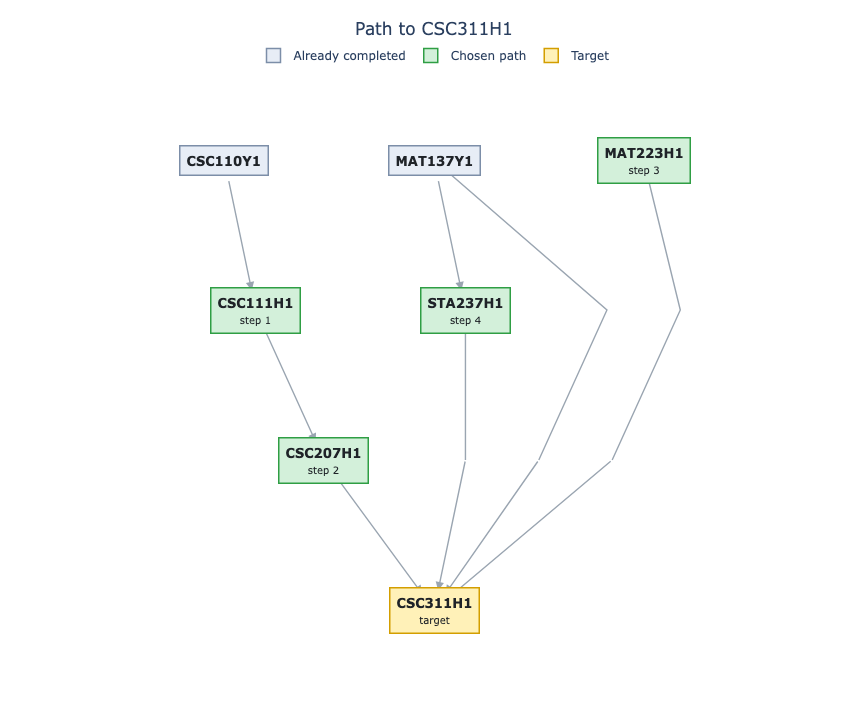
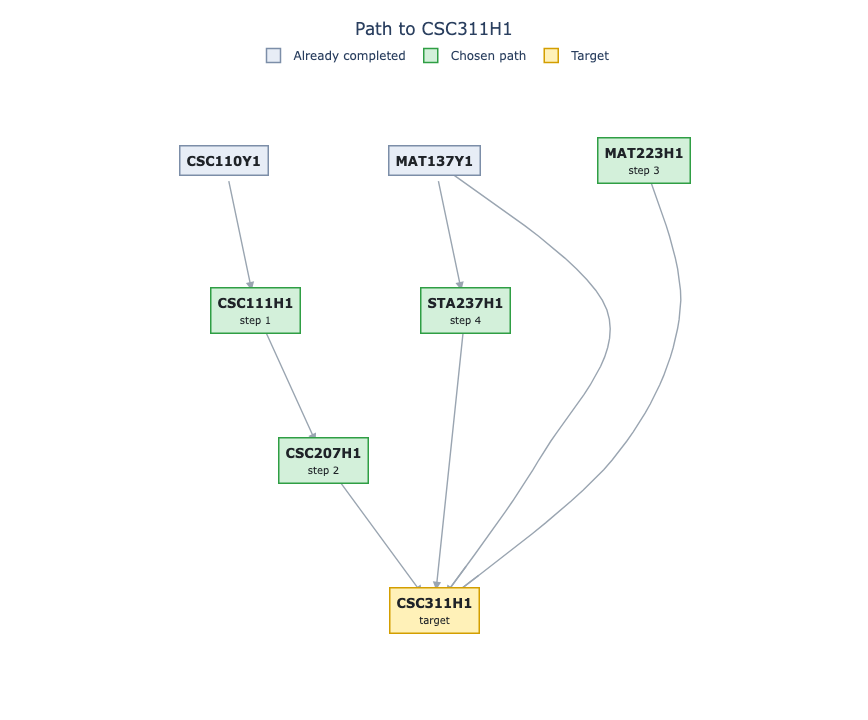
Draw long edges straight when possible and curve the rest
An edge that skips a layer always bent through a point in each layer it
crossed, even with nothing in the way (e.g. CHM135H1 -> CHM247H1 next to
CHM136H1), which looked like a stray line. Now such an edge is drawn
straight when it clears every course box and adds no crossings, judged
by an exact segment-intersection test. Edges that still need to bend are
drawn as smooth Catmull-Rom curves with the arrowhead aligned to the
curve's end.

diff --git a/course_planner/visualizations.py b/course_planner/visualizations.py
@@ -7,6 +7,7 @@ it. Within each layer, courses are ordered to keep arrows from crossing.
 from __future__ import annotations
 
 from collections.abc import Callable, Iterable
+from itertools import pairwise
 
 import networkx as nx
 from plotly.graph_objs import Figure, Scatter
@@ -25,6 +26,8 @@ TEXT_COLOUR = '#1f2328'
 
 X_SPACING = 1.0     # horizontal distance between neighbouring courses in a layer
 BEND_WIDTH = 0.35   # horizontal room taken by an edge bend point, relative to a course
+BOX_CLEARANCE = 0.35  # how far (in x units) a straight edge must pass from a course box
+ARROW_TAIL_PX = 45   # length of the straight arrow drawn at the end of a curved edge
 SWEEPS = 12         # down/up passes used to reduce edge crossings; the best ordering is kept
 
 
@@ -59,18 +62,30 @@ def build_figure(graph: CourseGraph, path: Iterable[str] = (), target: str | Non
             return 'target'
         return 'path' if code in step_of else 'completed'
 
+    layer_count = 1 + max((-y for _, y in pos.values()), default=0)
+    all_points = list(pos.values()) + [point for route in routes.values() for point in route]
+    widest = max((abs(x) for x, _ in all_points), default=0)
+    width = max(720, int(220 * (2 * widest + 1.6)))
+    height = max(420, int(140 * layer_count + 160))
+    # Pixels per data unit, used to place arrowheads a fixed distance along curves.
+    scale = ((width - 40) / (2 * widest + 1.6), (height - 90) / (layer_count + 0.2))
+
     fig = Figure()
     annotations = []
 
-    # Edges that skip layers bend through intermediate points; draw those bends as lines
-    # and finish every edge with an arrow into its course. Boxes are drawn on top.
-    line_x: list[float | None] = []
-    line_y: list[float | None] = []
+    # Straight edges are single arrows. Edges that bend around boxes are drawn as smooth
+    # curves through their bend points, finished by a short arrowhead into the course.
+    # Course boxes are drawn on top of everything.
+    curve_x: list[float | None] = []
+    curve_y: list[float | None] = []
     for route in routes.values():
+        (start_x, start_y), (end_x, end_y) = route[0], route[-1]
         if len(route) > 2:
-            line_x += [x for x, _ in route[:-1]] + [None]
-            line_y += [y for _, y in route[:-1]] + [None]
-        (start_x, start_y), (end_x, end_y) = route[-2], route[-1]
+            curve = smooth_route(route)
+            curve_x += [x for x, _ in curve] + [None]
+            curve_y += [y for _, y in curve] + [None]
+            # The arrow covers only the curve's last few pixels, so it follows the curve.
+            start_x, start_y = _point_before_end(curve, ARROW_TAIL_PX, scale)
         annotations.append({
             'x': end_x, 'y': end_y, 'xref': 'x', 'yref': 'y',
             'ax': start_x, 'ay': start_y, 'axref': 'x', 'ayref': 'y',
@@ -78,8 +93,8 @@ def build_figure(graph: CourseGraph, path: Iterable[str] = (), target: str | Non
             'arrowwidth': 1.4, 'arrowcolor': EDGE_COLOUR, 'standoff': 20,
             'startstandoff': 20 if len(route) == 2 else 0,
         })
-    if line_x:
-        fig.add_trace(Scatter(x=line_x, y=line_y, mode='lines', hoverinfo='skip', showlegend=False,
+    if curve_x:
+        fig.add_trace(Scatter(x=curve_x, y=curve_y, mode='lines', hoverinfo='skip', showlegend=False,
                               line={'color': EDGE_COLOUR, 'width': 1.4}))
 
     for code in digraph.nodes:
@@ -114,16 +129,13 @@ def build_figure(graph: CourseGraph, path: Iterable[str] = (), target: str | Non
                 marker={'symbol': 'square', 'size': 14, 'color': fill, 'line': {'color': border, 'width': 1.5}},
             ))
 
-    layer_count = 1 + max((-y for _, y in pos.values()), default=0)
-    all_points = list(pos.values()) + [point for route in routes.values() for point in route]
-    widest = max((abs(x) for x, _ in all_points), default=0)
     title = f'Path to {target}' if target else 'Course prerequisites'
     fig.update_layout(
         title={'text': title, 'x': 0.5},
         template='plotly_white',
         annotations=annotations,
-        width=max(720, int(220 * (2 * widest + 1.6))),
-        height=max(420, int(140 * layer_count + 160)),
+        width=width,
+        height=height,
         margin={'l': 20, 'r': 20, 't': 70, 'b': 20},
         legend={'orientation': 'h', 'x': 0.5, 'xanchor': 'center', 'y': 1.0, 'yanchor': 'bottom'},
         hoverlabel={'bgcolor': 'white'},
@@ -131,6 +143,37 @@ def build_figure(graph: CourseGraph, path: Iterable[str] = (), target: str | Non
     fig.update_xaxes(visible=False, range=[-widest - 0.8, widest + 0.8])
     fig.update_yaxes(visible=False, range=[-(layer_count - 1) - 0.6, 0.6])
     return fig
+
+
+def smooth_route(route: list[Position], samples: int = 16) -> list[Position]:
+    """Return points along a Catmull-Rom curve that passes through every point of route.
+
+    >>> curve = smooth_route([(0, 0), (1, -1), (0, -2)], samples=4)
+    >>> curve[0], curve[4], curve[-1]
+    ((0.0, 0.0), (1.0, -1.0), (0.0, -2.0))
+    """
+    padded = [route[0], *route, route[-1]]
+    curve = []
+    for i in range(1, len(padded) - 2):
+        p0, p1, p2, p3 = padded[i - 1], padded[i], padded[i + 1], padded[i + 2]
+        for step in range(samples):
+            t = step / samples
+            curve.append(tuple(
+                0.5 * (2 * b + (c - a) * t + (2 * a - 5 * b + 4 * c - d) * t ** 2 + (3 * b - a - 3 * c + d) * t ** 3)
+                for a, b, c, d in zip(p0, p1, p2, p3, strict=True)))
+    curve.append((float(route[-1][0]), float(route[-1][1])))
+    return curve
+
+
+def _point_before_end(curve: list[Position], distance_px: float, scale: tuple[float, float]) -> Position:
+    """Return the point on curve that lies about distance_px pixels before its end."""
+    travelled = 0.0
+    for i in range(len(curve) - 1, 0, -1):
+        (x1, y1), (x0, y0) = curve[i], curve[i - 1]
+        travelled += (((x1 - x0) * scale[0]) ** 2 + ((y1 - y0) * scale[1]) ** 2) ** 0.5
+        if travelled >= distance_px:
+            return curve[i - 1]
+    return curve[0]
 
 
 def get_depths(digraph: nx.DiGraph) -> dict[str, int]:
@@ -168,13 +211,17 @@ def layered_layout(digraph: nx.DiGraph) -> tuple[dict[str, Position], dict[tuple
     edge crossings.
 
     The second value maps each edge (u, v) to the points its line passes through,
-    from u's position to v's position.
+    from u's position to v's position. A long edge keeps its bend points only when a
+    straight line would run through a course box in a layer it crosses.
 
     >>> pos, routes = layered_layout(nx.DiGraph([('A', 'B'), ('B', 'C'), ('A', 'C')]))
     >>> [pos[n][1] for n in 'ABC']
     [0, -1, -2]
-    >>> len(routes[('A', 'B')]), len(routes[('A', 'C')])
-    (2, 3)
+    >>> len(routes[('A', 'C')])  # B sits between A and C, so the edge bends around it
+    3
+    >>> _, routes = layered_layout(nx.DiGraph([('A', 'B'), ('B', 'C'), ('A', 'C'), ('D', 'B')]))
+    >>> len(routes[('A', 'C')])  # room for a straight line beside B
+    2
     """
     depths = get_depths(digraph)
     expanded = nx.DiGraph()
@@ -220,7 +267,39 @@ def layered_layout(digraph: nx.DiGraph) -> tuple[dict[str, Position], dict[tuple
 
     node_pos = {node: pos[node] for node in digraph.nodes}
     routes = {edge: [pos[node] for node in chain] for edge, chain in chains.items()}
+    _straighten(routes, node_pos.values())
     return node_pos, routes
+
+
+def _straighten(routes: dict[tuple[str, str], list[Position]], boxes: Iterable[Position]) -> None:
+    """Replace bent routes in place with straight lines where that is cleaner.
+
+    A route is straightened when the straight line passes clear of every course box
+    and crosses no more of the other edges than the bent route does.
+    """
+    boxes = list(boxes)
+    for edge, route in routes.items():
+        if len(route) <= 2:
+            continue
+        straight = [route[0], route[-1]]
+        if not _straight_line_is_clear(straight[0], straight[1], boxes):
+            continue
+        others = [other for key, other in routes.items() if key != edge]
+        if _route_crossings(straight, others) <= _route_crossings(route, others):
+            routes[edge] = straight
+
+
+def _straight_line_is_clear(start: Position, end: Position, boxes: Iterable[Position]) -> bool:
+    """Return whether a straight line from start to end passes clear of every box
+    centred in a layer strictly between them.
+    """
+    (x1, y1), (x2, y2) = start, end
+    for bx, by in boxes:
+        if y2 < by < y1:
+            line_x = x1 + (x2 - x1) * (y1 - by) / (y1 - y2)
+            if abs(line_x - bx) < BOX_CLEARANCE:
+                return False
+    return True
 
 
 def _order_crossings(expanded: nx.DiGraph, order: list[list]) -> int:
@@ -263,20 +342,35 @@ def hierarchical_layout(digraph: nx.DiGraph) -> dict[str, Position]:
 
 
 def count_crossings(routes: dict[tuple[str, str], list[Position]]) -> int:
-    """Return the number of pairs of edge segments that cross between adjacent layers.
+    """Return the number of places where two drawn edges cross.
+
+    Edges meeting at a shared course (a common endpoint) do not count as crossing.
 
     >>> count_crossings({('A', 'D'): [(0, 0), (1, -1)], ('B', 'C'): [(1, 0), (0, -1)]})
     1
     >>> count_crossings({('A', 'C'): [(0, 0), (0, -1)], ('B', 'D'): [(1, 0), (1, -1)]})
     0
     """
-    segments = [(route[i], route[i + 1]) for route in routes.values() for i in range(len(route) - 1)]
-    crossings = 0
-    for i, ((x1, y1), (x2, _)) in enumerate(segments):
-        for (x3, y3), (x4, _) in segments[i + 1:]:
-            if y1 == y3 and (x1 - x3) * (x2 - x4) < 0:
-                crossings += 1
-    return crossings
+    route_list = list(routes.values())
+    return sum(_route_crossings(route, route_list[i + 1:]) for i, route in enumerate(route_list))
+
+
+def _route_crossings(route: list[Position], others: Iterable[list[Position]]) -> int:
+    """Return how many times route crosses the routes in others."""
+    return sum(1 for other in others
+               for a, b in pairwise(route) for c, d in pairwise(other)
+               if _segments_cross(a, b, c, d))
+
+
+def _segments_cross(a: Position, b: Position, c: Position, d: Position) -> bool:
+    """Return whether segments ab and cd properly cross (touching endpoints do not count)."""
+    def orientation(p: Position, q: Position, r: Position) -> float:
+        return (q[0] - p[0]) * (r[1] - p[1]) - (q[1] - p[1]) * (r[0] - p[0])
+
+    if {a, b} & {c, d}:
+        return False
+    return (orientation(a, b, c) * orientation(a, b, d) < 0
+            and orientation(c, d, a) * orientation(c, d, b) < 0)
 
 
 if __name__ == '__main__':

diff --git a/tests/test_visualizations.py b/tests/test_visualizations.py
@@ -1,9 +1,18 @@
 """Tests for the layered path-graph layout and figure."""
+from itertools import pairwise
+
 import networkx as nx
 
 from course_planner.boolean_list import BooleanList
 from course_planner.course_graph import CourseGraph, _CourseVertex
-from course_planner.visualizations import STATUS_STYLES, build_figure, count_crossings, get_depths, layered_layout
+from course_planner.visualizations import (
+    BOX_CLEARANCE,
+    STATUS_STYLES,
+    build_figure,
+    count_crossings,
+    get_depths,
+    layered_layout,
+)
 
 
 def path_graph() -> CourseGraph:
@@ -33,8 +42,11 @@ def test_layout_has_no_crossings_and_routes_long_edges() -> None:
     assert count_crossings(routes) == 0
     for (u, v), route in routes.items():
         assert route[0] == pos[u] and route[-1] == pos[v]
-        # One point per layer: no segment skips a layer, so none can pass behind a box.
-        assert [y for _, y in route] == list(range(int(pos[u][1]), int(pos[v][1]) - 1, -1))
+        # No segment of any edge runs through a course box it does not connect.
+        for (x1, y1), (x2, y2) in pairwise(route):
+            for code, (bx, by) in pos.items():
+                if code not in (u, v) and y2 < by < y1:
+                    assert abs(x1 + (x2 - x1) * (y1 - by) / (y1 - y2) - bx) >= BOX_CLEARANCE
     # Bend points never land on a course box.
     bends = {point for route in routes.values() for point in route[1:-1]}
     assert not bends & set(pos.values())
@@ -56,3 +68,17 @@ def test_figure_marks_status_and_steps() -> None:
     arrows = [a for a in fig.layout.annotations if a.showarrow]
     assert len(arrows) == path_graph().to_networkx().number_of_edges()
     assert fig.layout.title.text == 'Path to CSC311H1'
+
+
+def test_long_edge_is_straight_when_nothing_is_in_the_way() -> None:
+    """CHM247 needs CHM135 directly and through CHM136; the direct edge should not bend."""
+    graph = CourseGraph()
+    for code, prereqs in [
+        ('BIO120H1', None), ('CHM135H1', None),
+        ('CHM136H1', BooleanList('AND', ['CHM135H1'])),
+        ('CHM247H1', BooleanList('AND', ['CHM135H1', 'CHM136H1'])),
+        ('CHM343H1', BooleanList('AND', ['CHM247H1'])),
+    ]:
+        graph.add_vertex(_CourseVertex(code, code, prereqs))
+    _, routes = layered_layout(graph.to_networkx())
+    assert len(routes[('CHM135H1', 'CHM247H1')]) == 2
